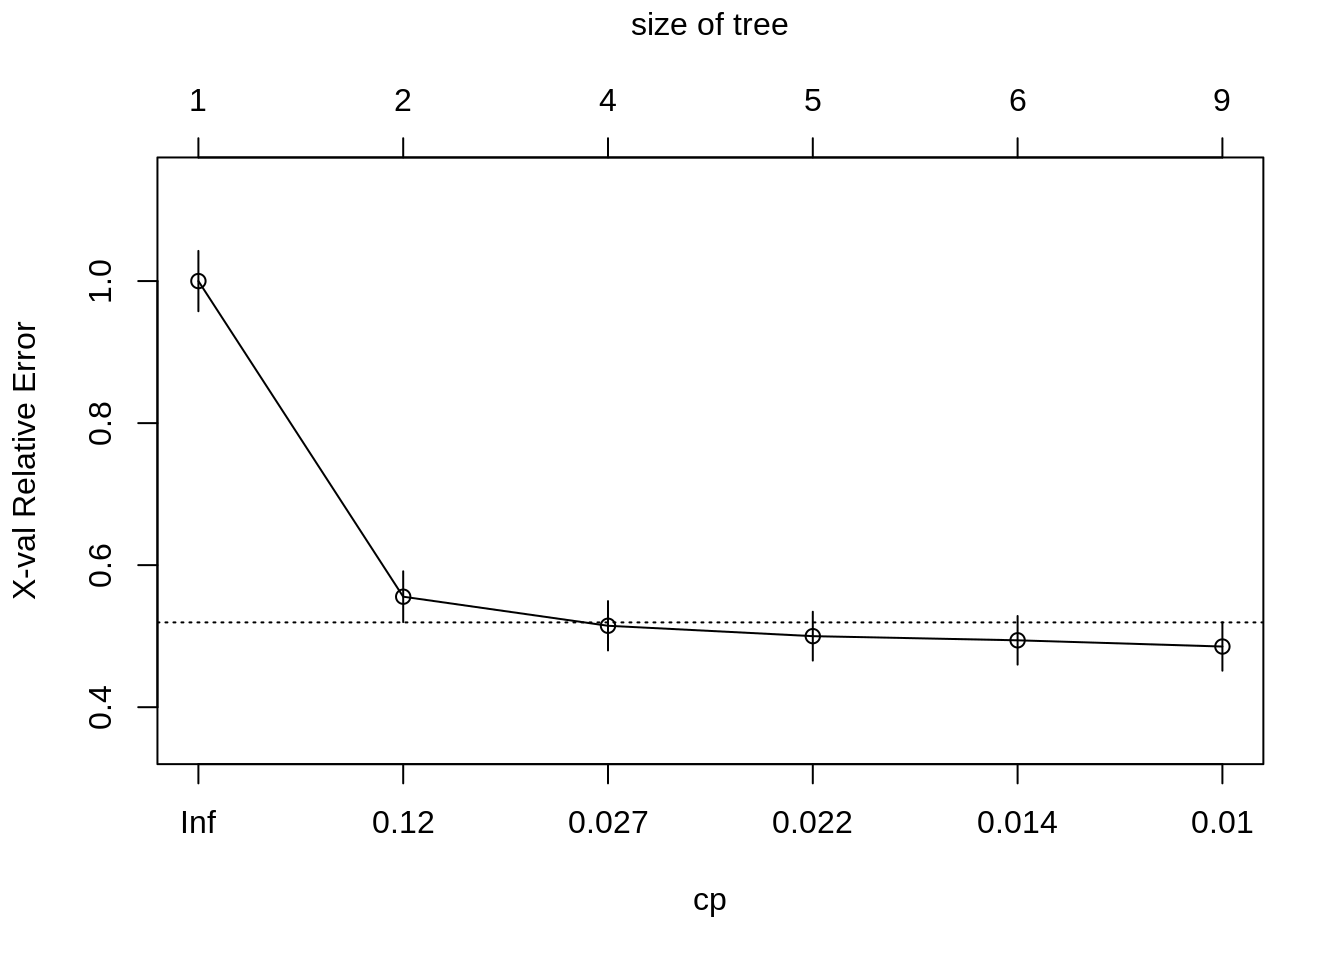
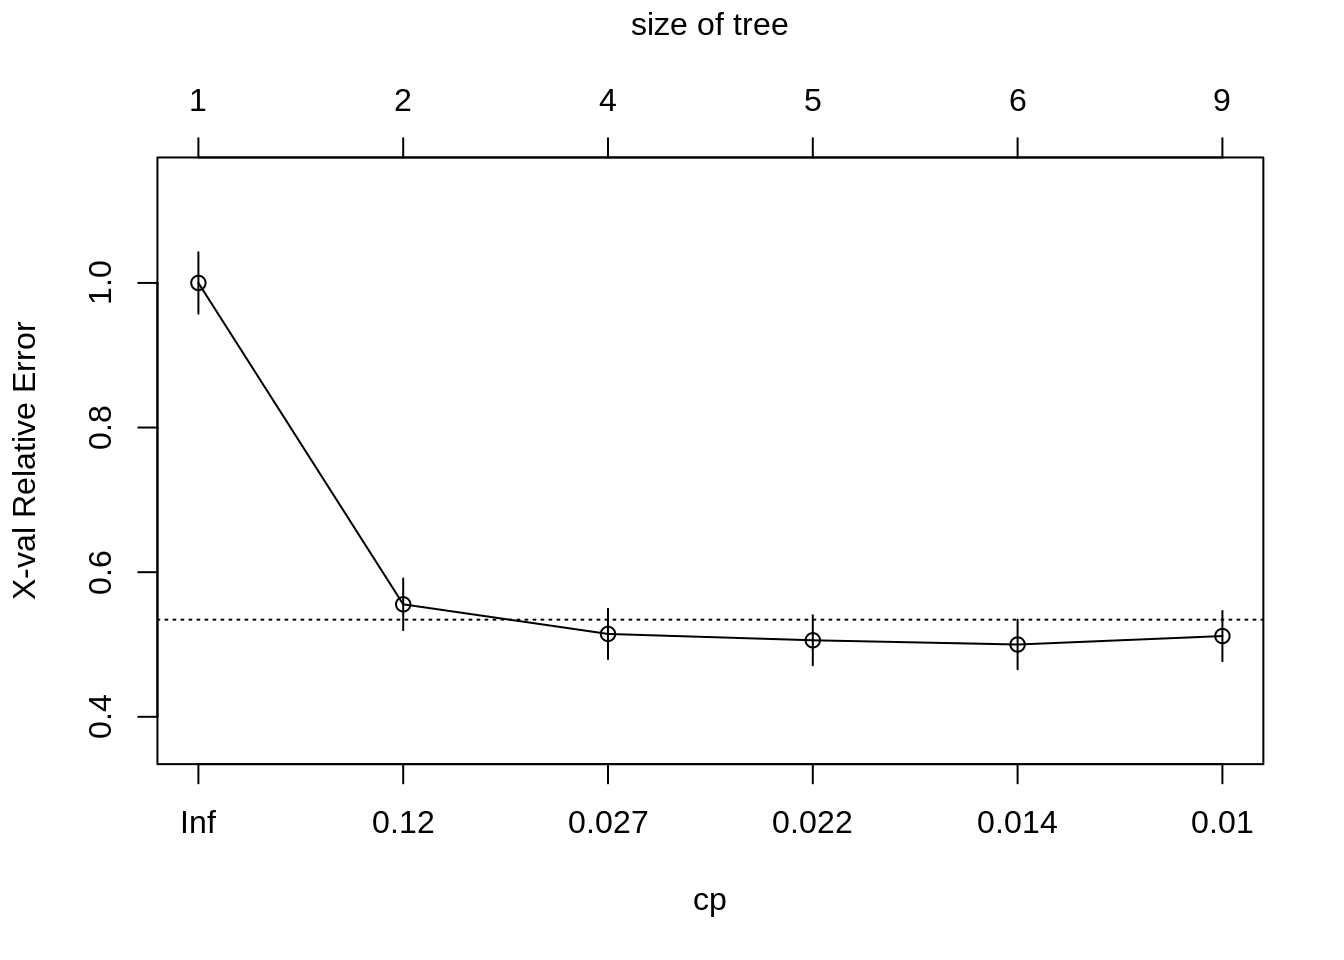
Deploy lebebr01/stat_thinking to github.com/lebebr01/stat_thinking.git:master

diff --git a/docs/classification.html b/docs/classification.html
@@ -325,9 +325,9 @@ titanic &lt;-<span class="st"> </span><span class="kw">bind_rows</span>(titanic_
 ## 1 0.444444      0   1.00000 1.00000 0.042446
 ## 2 0.030702      1   0.55556 0.55556 0.035750
 ## 3 0.023392      3   0.49415 0.51462 0.034749
-## 4 0.020468      4   0.47076 0.50000 0.034372
-## 5 0.010234      5   0.45029 0.49415 0.034217
-## 6 0.010000      8   0.41813 0.48538 0.033983</code></pre>
+## 4 0.020468      4   0.47076 0.50585 0.034524
+## 5 0.010234      5   0.45029 0.50000 0.034372
+## 6 0.010000      8   0.41813 0.51170 0.034675</code></pre>
 <div class="sourceCode"><pre class="sourceCode r"><code class="sourceCode r"><span class="kw">plotcp</span>(class_tree)</code></pre></div>
 <p><img src="05-classification_files/figure-html/unnamed-chunk-6-1.png" width="672" /></p>
 <div class="sourceCode"><pre class="sourceCode r"><code class="sourceCode r">prune_class_tree &lt;-<span class="st"> </span><span class="kw">prune</span>(class_tree, <span class="dt">cp =</span> .<span class="dv">02</span>)

diff --git a/docs/05-classification.md b/docs/05-classification.md
@@ -250,9 +250,9 @@ printcp(class_tree)
 ## 1 0.444444      0   1.00000 1.00000 0.042446
 ## 2 0.030702      1   0.55556 0.55556 0.035750
 ## 3 0.023392      3   0.49415 0.51462 0.034749
-## 4 0.020468      4   0.47076 0.50000 0.034372
-## 5 0.010234      5   0.45029 0.49415 0.034217
-## 6 0.010000      8   0.41813 0.48538 0.033983
+## 4 0.020468      4   0.47076 0.50585 0.034524
+## 5 0.010234      5   0.45029 0.50000 0.034372
+## 6 0.010000      8   0.41813 0.51170 0.034675
 ```
 
 ```r
